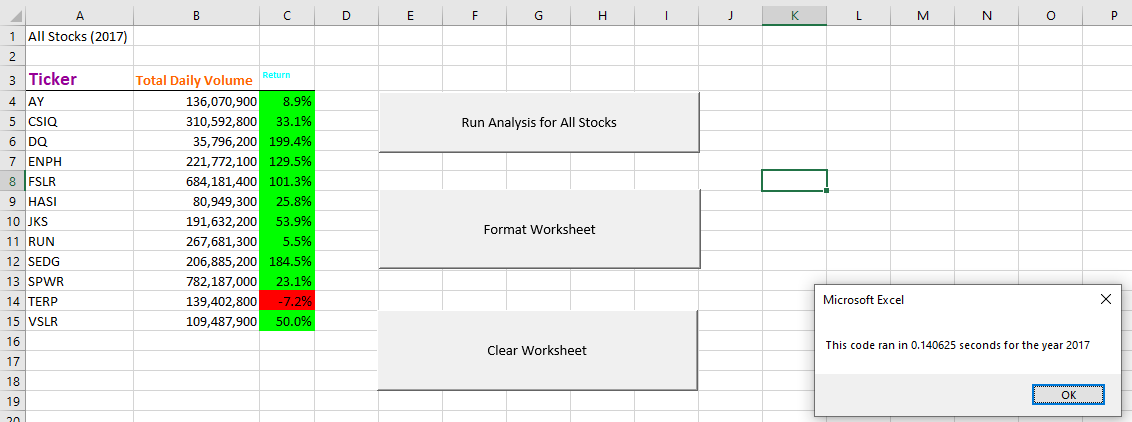
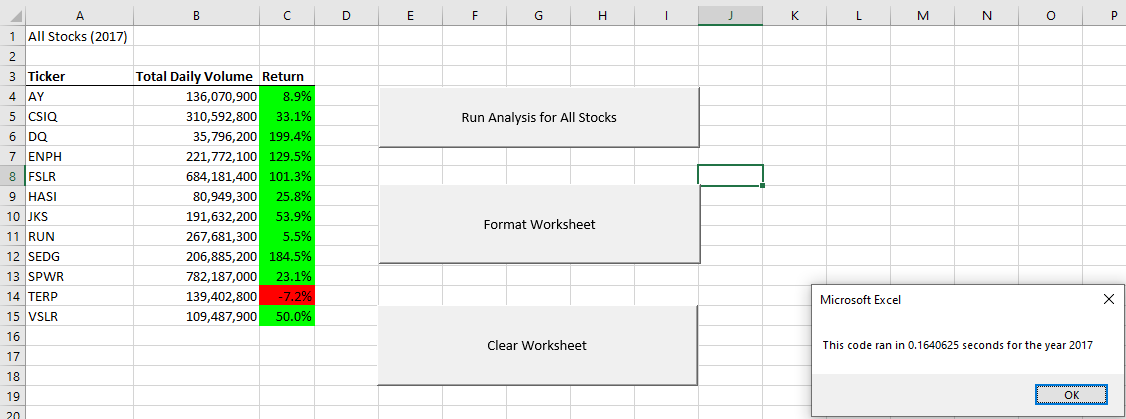
read me finished.

diff --git a/README.md b/README.md
@@ -7,7 +7,45 @@ Using VBA on the green_stocks dataset we explored how to create macros, refactor
 
 
 ## Results
+# Stock Performance
 ![Module 2017](Resources/Module_2017_Analysis.png)
 ![Module 2018](Resources/Module_2018_Analysis.png)
+- Our analysis of Daqo (DQ) in 2017 & 2018 shows the following:
+  - 2017
+    - DQ had a daily trading volume of ~36M shares and a great yearly return of 199.45% in 2017.
+    - All of the 12 green stocks we analyzed in 2017 saw positive returns except for TERP stock.
+  - 2018
+    - DQ's daily trading volume more than tripled to ~108M shares, but lost 62.60% in 2018. 
+    - DQ was not the only losing stock in 2018, of the 12 stocks we analyzed, only RUN & ENPH grew in 2018. 
+# Code
+The refactored code was a success, as seen above:
+- It took our original code 1.089844 seconds to run our 2017 analysis for 12 stocks.
+- It took our original code 1.054688 seconds for the year 2018.
+Below you can see the results of our refactoring:
+![Challenge 2017](Resources/VBA_Challenge_2017.png)
+![Challenge 2018](Resources/VBA_Challenge_2018.png)
+- Our refactored 2017 macro only took 0.1640625 seconds, which saved 0.9257815 seconds.
+- Our refactored 2018 macro only took 0.1445313 seconds, which saved 0.9101567 seconds.
+
+The main change that we made to the code that looped over the rows and arrays:
+- We used a nested loop in the module & refactored the script to have three separate for loops.
+  - Not counting the formatting for loops.
+Original
+![Original](Resources/Original_Script.png)
+Refactored
+![Refactored](Resources/Refactored_Script.png)
+![Refactored_2](Resources/Refactored_Script_2.png)
 
 ## Summary
+# Advantages and Disadvantages of Refactoring Code in General
+Depending on the time saved it may or may not be worth it to refactor code. If a significant amount of time is spent to save a barely noticeable amount of time, one should probably just leave the original code as is. 
+
+However, there are many instances where refactoring code would absolutely be worthwhile, especially for larger datasets. Finding the right balance between time spent refactoring code and time saved by the increased efficiency is key.
+
+# Advantages and Disadvantages of the Original and Refactored VBA Script
+The original script did allow us some more formatting customization in terms of adjusting the styles and colors in the column titles.
+
+We can clearly see the benefits of refactoring code here, we can save a lot of time by making our code more efficient. The benefit in this example might be small, but at a larger scale such as analyzing thousands of stocks we can reap the rewards. 
+
+On the other hand, there are some things to look out for if scaling this code up, stock ticker information would have to manually be added to the ticker array, which allows for human error. Additionally, the use of three similiarly named arrays caused some issues when testing the refactored code. We might unintentionally spend extra time refactoring code due to mistakes as the code gets more complex for us, even if the computer runs it more efficiently.
+
